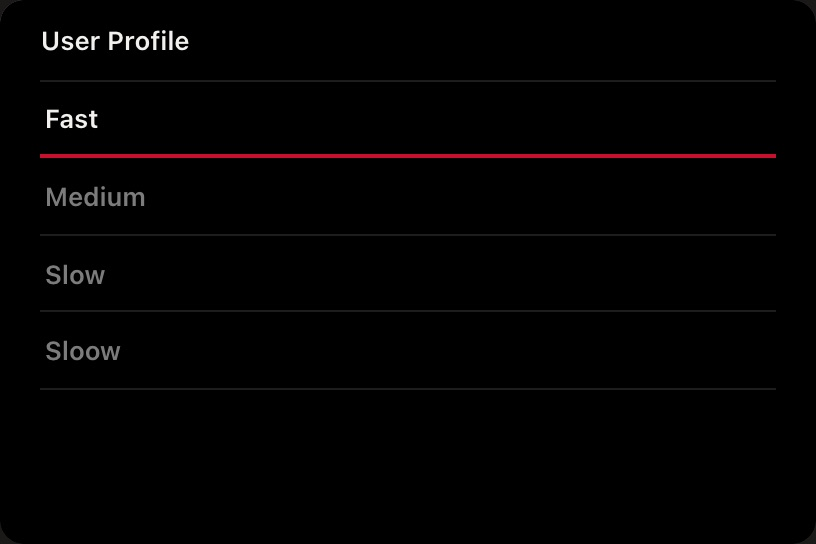
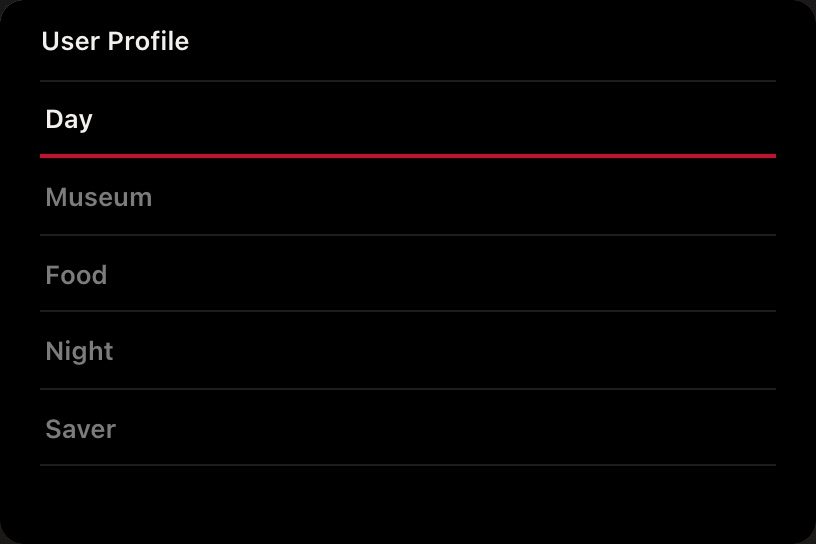
User profiles example is Travel

diff --git a/site/index.html b/site/index.html
@@ -237,7 +237,7 @@ footer { padding: 40px 0 64px; }
       <p>A user profile is a way of shooting, saved. The camera holds up to six. Each one remembers many settings at once: how slow the shutter may go, how high the ISO may climb, the color and the JPG look, what the buttons do. Switch profile and they all change together, so going from bright sun into a dark room is one press, not ten settings. In Msetter each profile is a column, so you see what changes from one to the next.</p>
       <picture>
         <source media="(prefers-color-scheme: dark)" srcset="images/feature-profiles-screen-dark.jpg">
-        <img class="shot" src="images/feature-profiles-screen-light.jpg" width="816" height="544" alt="The camera’s list of user profiles: Fast, Medium, Slow and Sloow, with Fast picked">
+        <img class="shot" src="images/feature-profiles-screen-light.jpg" width="816" height="544" alt="The camera’s list of user profiles from the Travel set: Day, Museum, Food, Night and Saver, with Day picked">
       </picture>
     </div>
     <div class="cols">
@@ -251,11 +251,11 @@ footer { padding: 40px 0 64px; }
       </div>
       <div class="sets">
         <p>Msetter comes with starting sets: a few profiles built around one idea. Pick one, then change anything.</p>
-        <div class="set"><b>For changing light</b><p>Speed ladder, Day and night, Everyday, Street, Cinema and One speed. Switch profile as the light changes.</p></div>
+        <div class="set"><b>For changing light</b><p>Everyday, Day and night, Street, Cinema, One speed and Speed ladder. Switch profile as the light changes.</p></div>
         <div class="set"><b>For a kind of picture</b><p>Motion, Portrait, Landscape, Night, Events, Travel, and Kids and pets. One profile for each situation in it.</p></div>
         <div class="set"><b>For a look</b><p>Color looks and Black and white. A JPG look in each profile; every picture also saves a DNG.</p></div>
         <div class="set"><b>To start clean</b><p>Factory: the camera as it comes, with one profile.</p></div>
-        <p>Mine is Speed ladder. Fast, Medium, Slow and Sloow take me from fast subjects to slow ones as the light changes.</p>
+        <p>For example, Travel: Day for walking around, Museum where you must be quiet, Food at the table, Night after dark, and Saver to make the battery last.</p>
       </div>
     </div>
   </section>

diff --git a/README.md b/README.md
@@ -116,7 +116,7 @@ A user profile is a way of shooting, saved. The camera holds up to six. Each one
 
 <picture>
   <source media="(prefers-color-scheme: dark)" srcset="site/images/feature-profiles-screen-dark.jpg">
-  <img alt="The camera's list of user profiles: Fast, Medium, Slow and Sloow, with Fast picked" src="site/images/feature-profiles-screen-light.jpg" width="408">
+  <img alt="The camera's list of user profiles from the Travel set: Day, Museum, Food, Night and Saver, with Day picked" src="site/images/feature-profiles-screen-light.jpg" width="408">
 </picture>
 
 **What pros tend to do.** [Who they are and where they said it](docs/pro-practice.md#user-profiles)
@@ -126,12 +126,12 @@ A user profile is a way of shooting, saved. The camera holds up to six. Each one
 
 Msetter comes with starting sets: a few profiles built around one idea. Pick one, then change anything.
 
-- **For changing light.** Speed ladder, Day and night, Everyday, Street, Cinema and One speed. Switch profile as the light changes.
+- **For changing light.** Everyday, Day and night, Street, Cinema, One speed and Speed ladder. Switch profile as the light changes.
 - **For a kind of picture.** Motion, Portrait, Landscape, Night, Events, Travel, and Kids and pets. One profile for each situation in it.
 - **For a look.** Color looks and Black and white. A JPG look in each profile; every picture also saves a DNG.
 - **To start clean.** Factory: the camera as it comes, with one profile.
 
-Mine is Speed ladder. Fast, Medium, Slow and Sloow take me from fast subjects to slow ones as the light changes.
+For example, Travel: Day for walking around, Museum where you must be quiet, Food at the table, Night after dark, and Saver to make the battery last.
 
 ## How to use it
 
